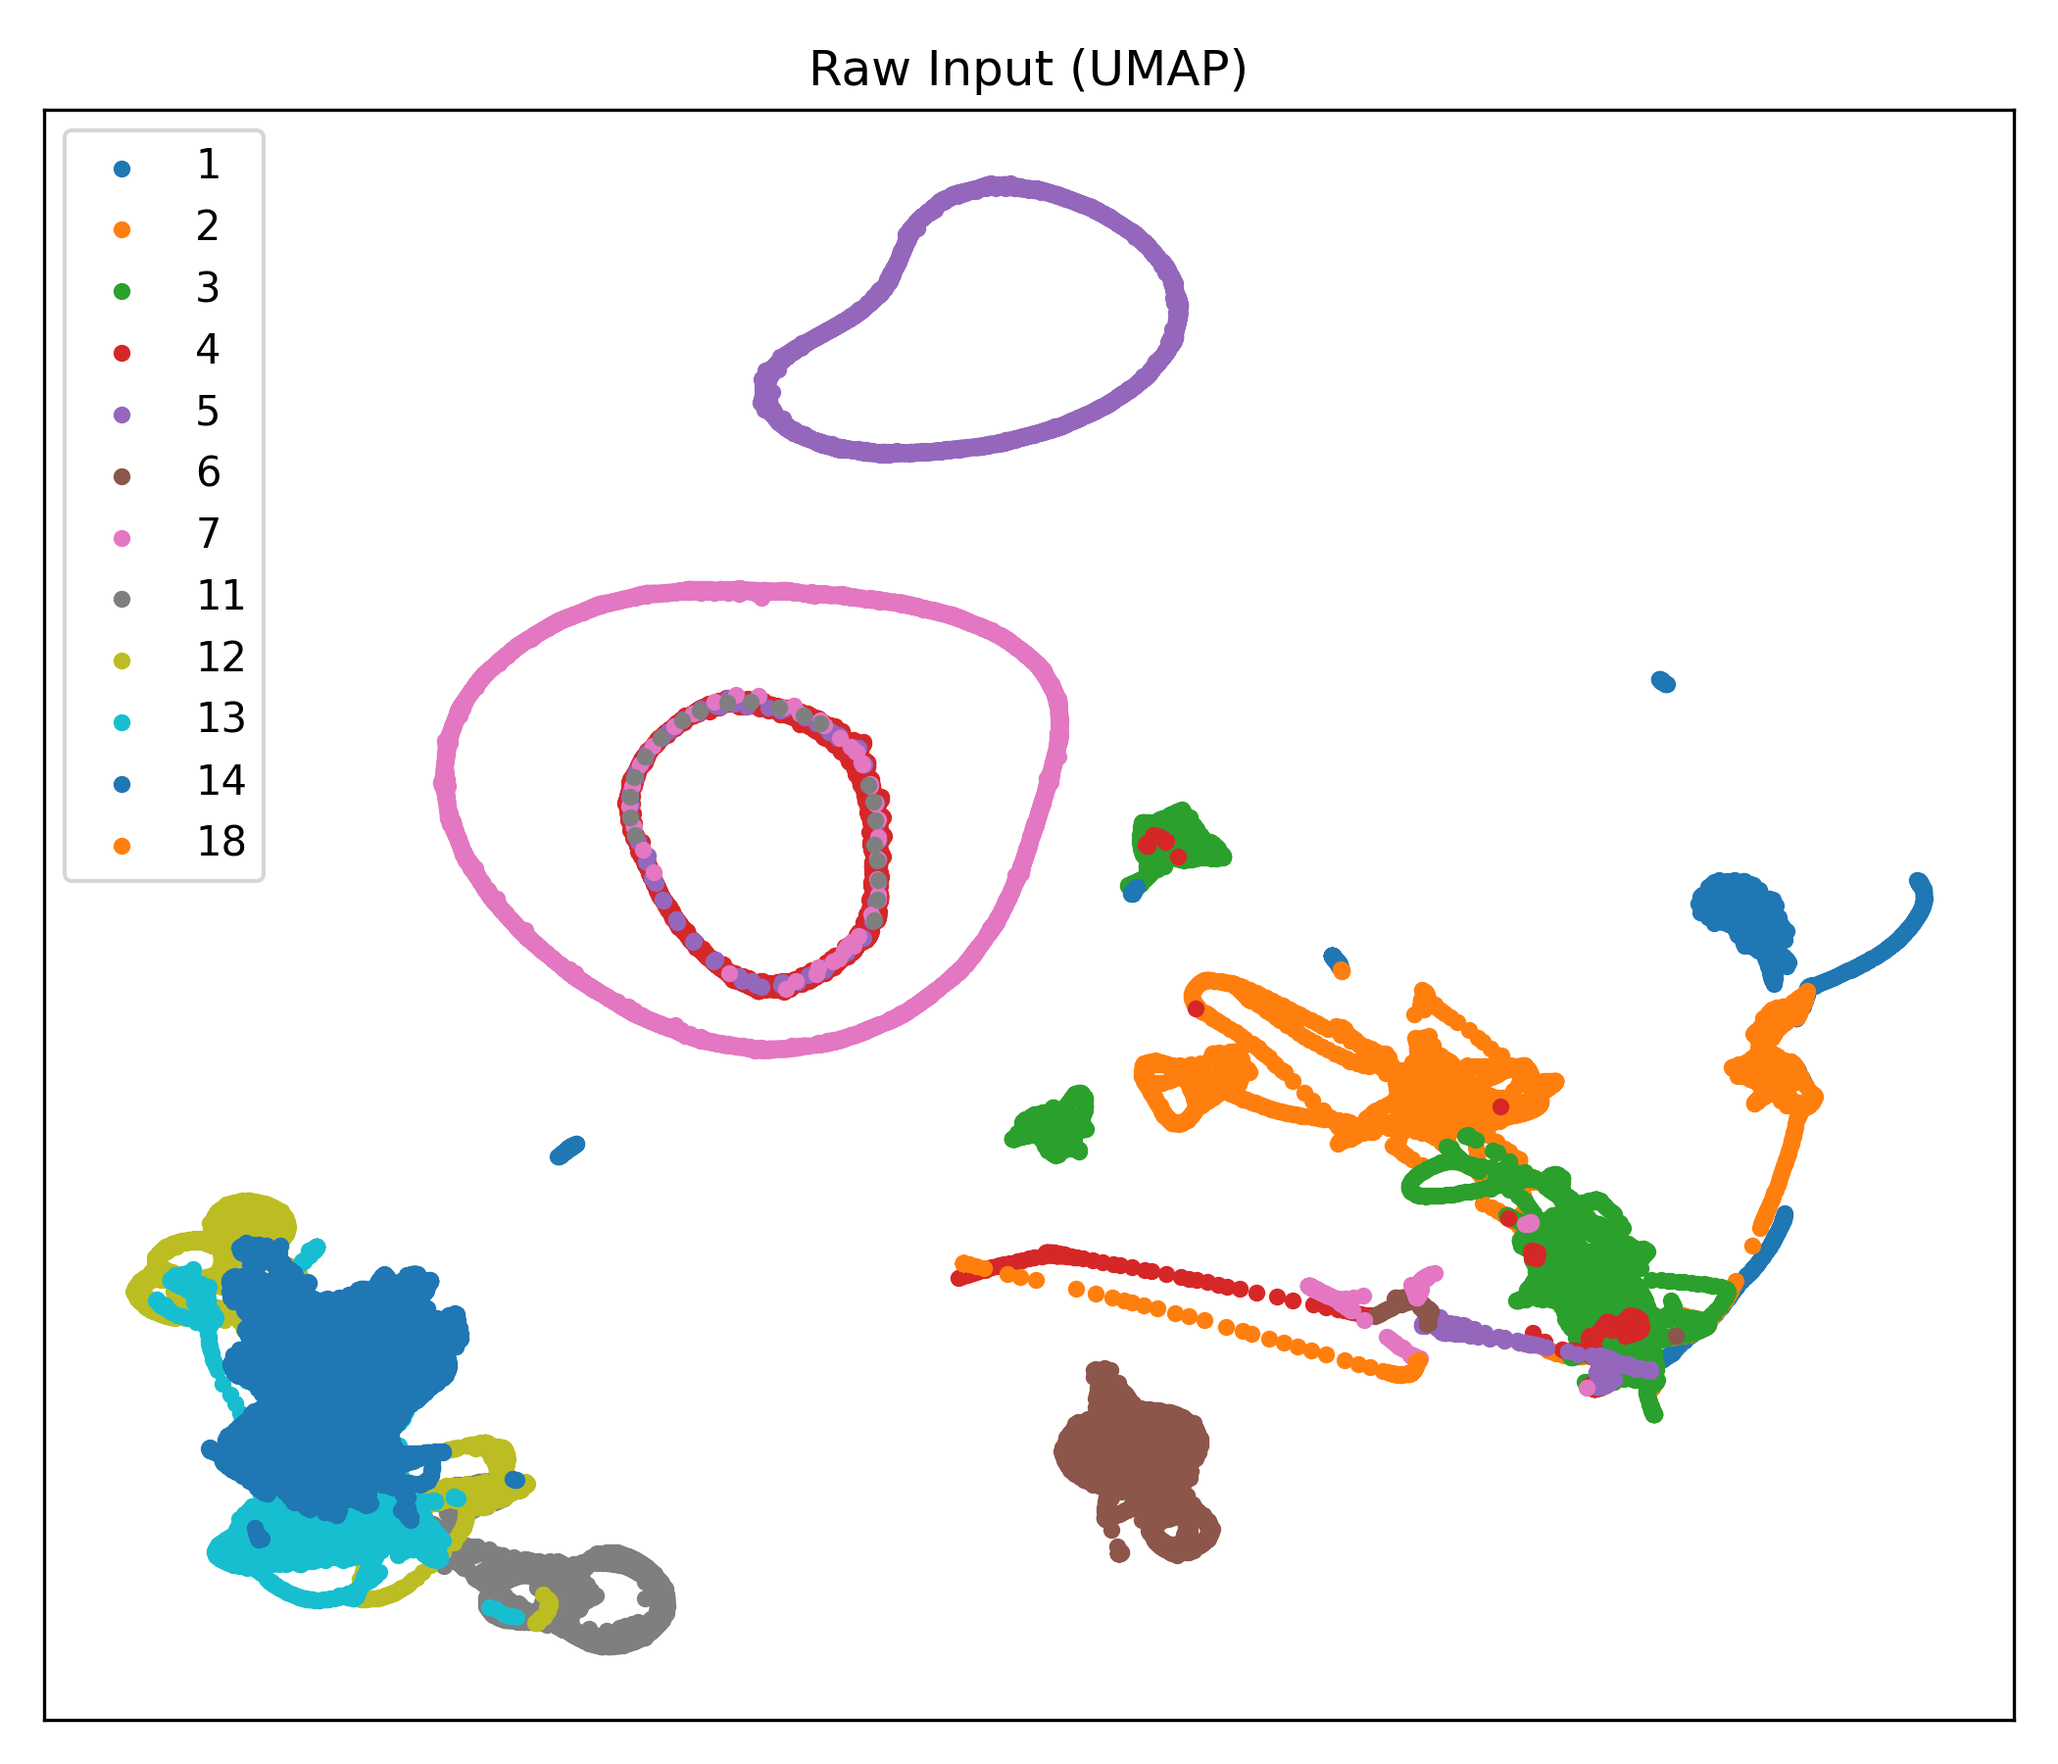
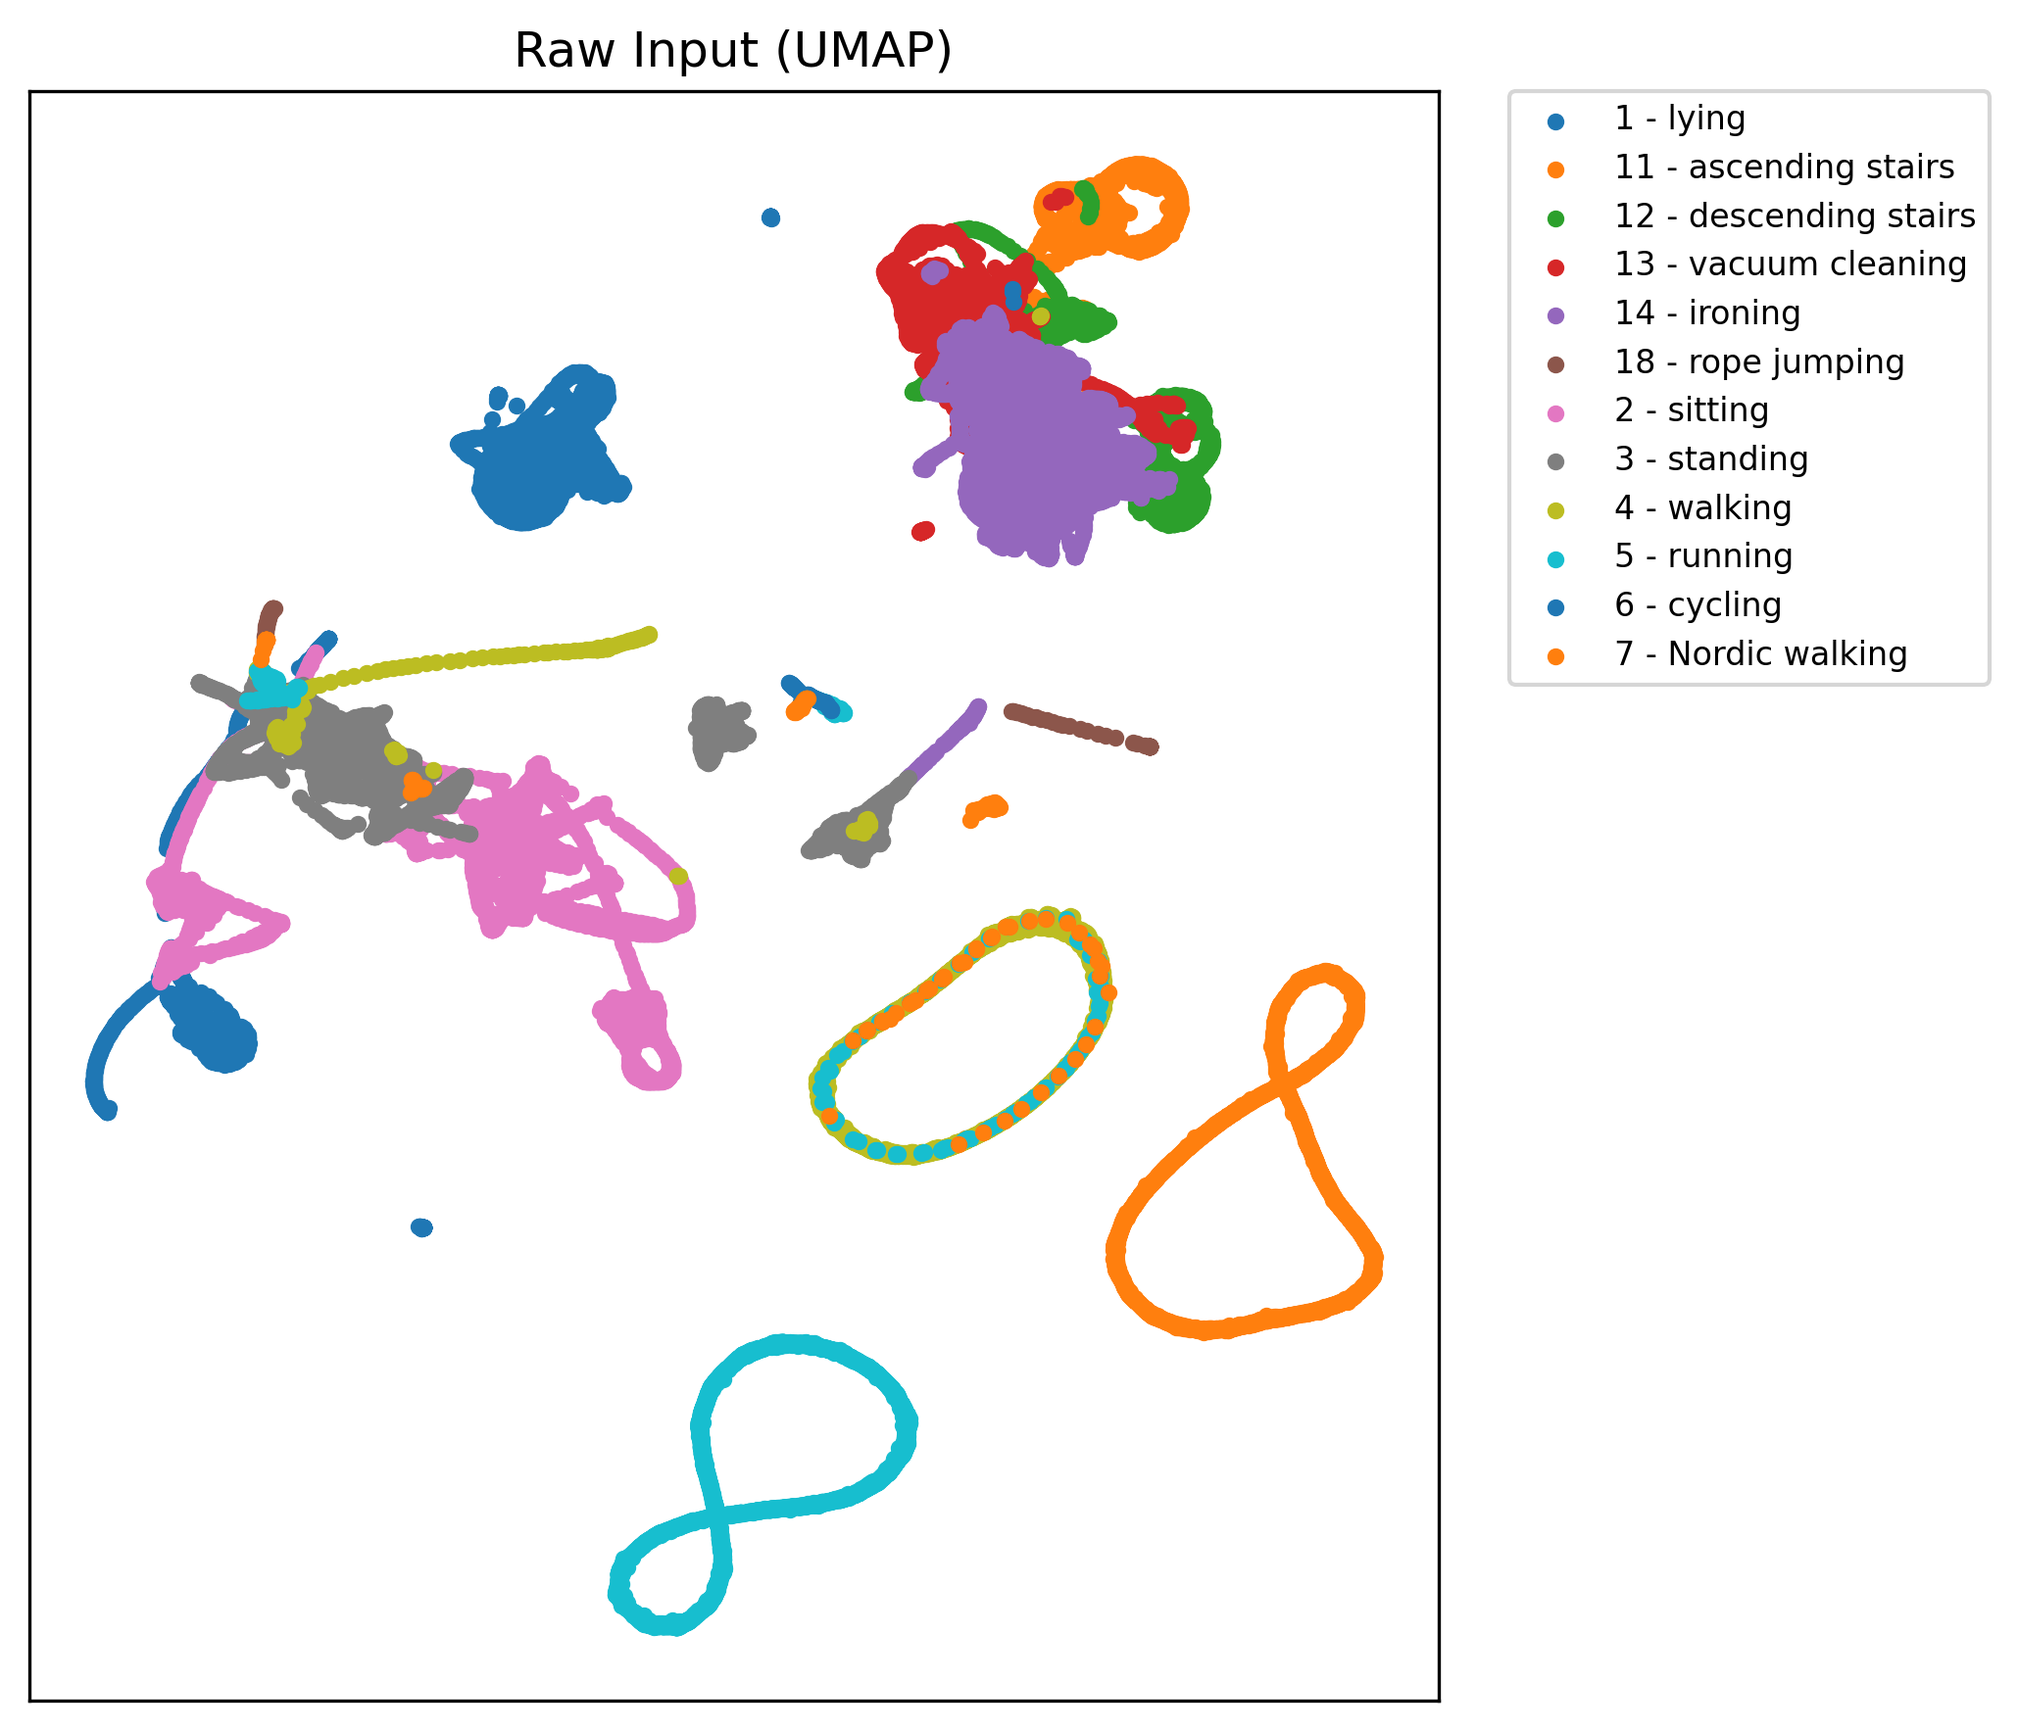
Modified the visualization script to include activity names.  Created a script to analyze the format of the inputs from PAMAP2.

diff --git a/visualize_embeddings.py b/visualize_embeddings.py
@@ -12,21 +12,25 @@ def reduceme(X, method='umap'):
 
     if method == 'umap':
         print("Fitting UMAP...")
-        reducer = umap.UMAP(n_components=2, random_state=42, verbose=True)
+        # Match repo exactly — no explicit hyperparameters
+        reducer = umap.UMAP()
     else:
-        print("Fitting UMAP...")
+        print("Fitting PCA...")
         reducer = PCA(n_components=2)
 
     X_red = reducer.fit_transform(X_scaled)
     return X_red
 
 
-def scatter_plot(X, Y, title):
+def scatter_plot(X, Y, title, combined_labels=False):
     plt.figure(figsize=(7, 6))
 
-    unique_labels = np.unique(Y)
+    if not combined_labels:
+        labels_unique = np.unique(Y)
+    else:
+        labels_unique = np.unique(Y)
 
-    for label in unique_labels:
+    for label in labels_unique:
         idx = Y == label
         plt.scatter(
             X[idx, 0],
@@ -38,12 +42,20 @@ def scatter_plot(X, Y, title):
     plt.xticks([])
     plt.yticks([])
     plt.title(title)
-    plt.legend()
+
+    # Move legend outside
+    plt.legend(
+        bbox_to_anchor=(1.05, 1),  # right of the plot
+        loc='upper left',
+        borderaxespad=0.,
+        fontsize=8
+    )
+
     plt.tight_layout()
-    
-    plt.savefig(f"figs/{title.replace(' ', '_')}.png", dpi=300)
+    plt.savefig(f"figs/{title.replace(' ', '_')}.png", dpi=300, bbox_inches='tight')
     print(f"Saved plot: figs/{title.replace(' ', '_')}.png")
     plt.show()
+
 
 
 raw_X = np.load("pamap2_raw.npy")           
@@ -52,11 +64,36 @@ labels = np.load("pamap2_labels.npy")
 
 labels_int = np.argmax(labels, axis=1)
 
+# Map to activity names
+col_to_activity = {
+    0: "other",
+    1: "lying",
+    2: "sitting",
+    3: "standing",
+    4: "walking",
+    5: "running",
+    6: "cycling",
+    7: "Nordic walking",
+    8: "other",
+    9: "other",
+    10: "other",
+    11: "ascending stairs",
+    12: "descending stairs",
+    13: "vacuum cleaning",
+    14: "ironing",
+    15: "other",
+    16: "other",
+    17: "other",
+    18: "rope jumping"
+}
 
+labels_names = np.array([col_to_activity[i] for i in labels_int])
 
 X_raw_red = reduceme(raw_X)
 X_ssl_red = reduceme(ssl_feats)
 
+labels_combined = np.array([f"{i} - {name}" for i, name in zip(labels_int, labels_names)])
 
-scatter_plot(X_raw_red, labels_int, "Raw Input (UMAP)")
-scatter_plot(X_ssl_red, labels_int, "SSL Pretrained Features (UMAP)")
+scatter_plot(X_raw_red, labels_combined, "Raw Input (UMAP)")
+scatter_plot(X_ssl_red, labels_combined, "SSL Pretrained Features (UMAP)")
+

diff --git a/random_input.py b/random_input.py
@@ -1,0 +1,43 @@
+import numpy as np
+import tensorflow as tf
+from preprocess.pamap2.data_loader import get_pamap2_data
+
+# Helper function to print and write to file simultaneously
+def print_and_write(f, *args):
+    print(*args)
+    f.write(" ".join(str(a) for a in args) + "\n")
+
+# Open the output file
+output_file = "random_input.txt"
+with open(output_file, "w") as f:
+
+    # Step 1: Load PAMAP2 dataset (where the transform will take place)
+    (train_x, train_y), (val_x, val_y), (test_x, test_y), raw_test_y = get_pamap2_data(verbose=True)
+
+    # Step 2: Pick a random test sample
+    idx = np.random.randint(0, test_x.shape[0])
+    sample_x = test_x[idx:idx+1]  
+    sample_y = test_y[idx]
+
+    print_and_write(f, f"\nRandom sample index: {idx}")
+    print_and_write(f, "Sample input shape (window_size x features):", sample_x.shape)
+    print_and_write(f, "Sample true label (one-hot):", sample_y)
+    print_and_write(f, "Sample true label (class index):", np.argmax(sample_y))
+
+    # Step 3: Load pretrained model
+    model = tf.keras.models.load_model('saved_model/pamap2')  # adjust path if needed
+    print_and_write(f, "Model input shape:", model.input_shape)
+
+    # Step 4: Run inference (where we're fitting the data)
+    pred = model.predict(sample_x)
+    pred_class = np.argmax(pred, axis=-1)
+    print_and_write(f, "Predicted class index:", pred_class[0])
+    print_and_write(f, "Predicted class probabilities:", pred[0])
+
+    # Step 5: Show raw segment data (first 5 timesteps)
+    print_and_write(f, "\nRaw segment data (first 5 timesteps):")
+    for row in sample_x[0][:5, :]:
+        print_and_write(f, row)
+
+print(f"\nAll sample information saved to {output_file}")
+

diff --git a/experiments/meetings.md b/experiments/meetings.md
@@ -75,5 +75,9 @@ Given that we know the input, we want to extract each embedding and the label of
 - When ran, using: TF_CPP_MIN_LOG_LEVEL=3 python extract_embeddings.py, it will generate the csv file that should link each embedding to its activity label. It will also include .npy files for embeddings and labels
 
 
-### Meeting 3 (02/05/206)
+### Meeting 3 (02/05/2062)
 With the extracted embeddings, I referenced another repo: https://github.com/OxWearables/ssl-wearables/blob/main to see how they were able to create UMaps. Gathering from this inspiration, I was able to create UMaps of the raw input and then after training the model. From these visualizations, we are able to identify the patterns of how the activities are clumped up together. 
+
+
+### Meeting 4 (02/18/2026)
+From the previous UMaps I generated in Meeting 3, I will be modifying them so that they display the activity labels next to the activity label id for a better analyzation. Secondly, I will be utilizing the hyperparameters from the OxWearables repo (https://github.com/OxWearables/ssl-wearables/blob/main) since they spent some time optimizing it for PAMAP2. Lastly, I will grab a random input from the PAMAP2 dataset and analyze the format characteristics. As we prepare to handle the childrens' dataset, we want to see how this repo is fitting and transforming the data to the model. 

diff --git a/experiments/project_status.md b/experiments/project_status.md
@@ -1,13 +1,16 @@
 # Project Status
 
 ## Current Phase
-1. Using the embeddings I was able to extract and creating UMaps to visualize the data. 
+1. Modifying the UMAP script to display the activity name alongside the activity label id. 
+2. Utilizing the hyper parameters from the OxWearables repo. 
+3. Extracting one random data from PAMAP2, and understanding its format characteristic. 
 
 ## Completed
 1. Environment setup & config information 
 2. Download & inspect PAMAP2 dataset 
 3. Run pretrained PAMAP2 inference 
 4. Created a script that extracted the embeddings plus the activity label it predeicted. 
+5. Using the embeddings I was able to extract and creating UMaps to visualize the data. 
 
 ## Next Steps 
 1. To be determined. 

diff --git a/experiments/week1_env.md b/experiments/week1_env.md
@@ -15,3 +15,13 @@ Here I will decsribe the steps and configurations needed, to run initial experim
 
 
 - Current setup will run experiments on CPU
+
+### Steps to run pre-trained model 
+1. wsl -d Ubuntu 
+2. conda activate "har-env" 
+3. TF_CPP_MIN_LOG_LEVEL=3 python main.py --test --dataset pamap2
+
+### Steps to generate UMAP
+1. wsl -d Ubuntu 
+2. conda activate "visualizations" 
+3. python visualize_embeddings.py

diff --git a/experiments/decision_log.md b/experiments/decision_log.md
@@ -1,4 +1,5 @@
 ### Decisions 
 There are two distinct conda environments 
 1. har-env : which is supposed to be used when running the pretrained model. It has the correct configurations given by the README
+
 2. visualizations: Created a second environment that has other installs needed to create the UMap. 
